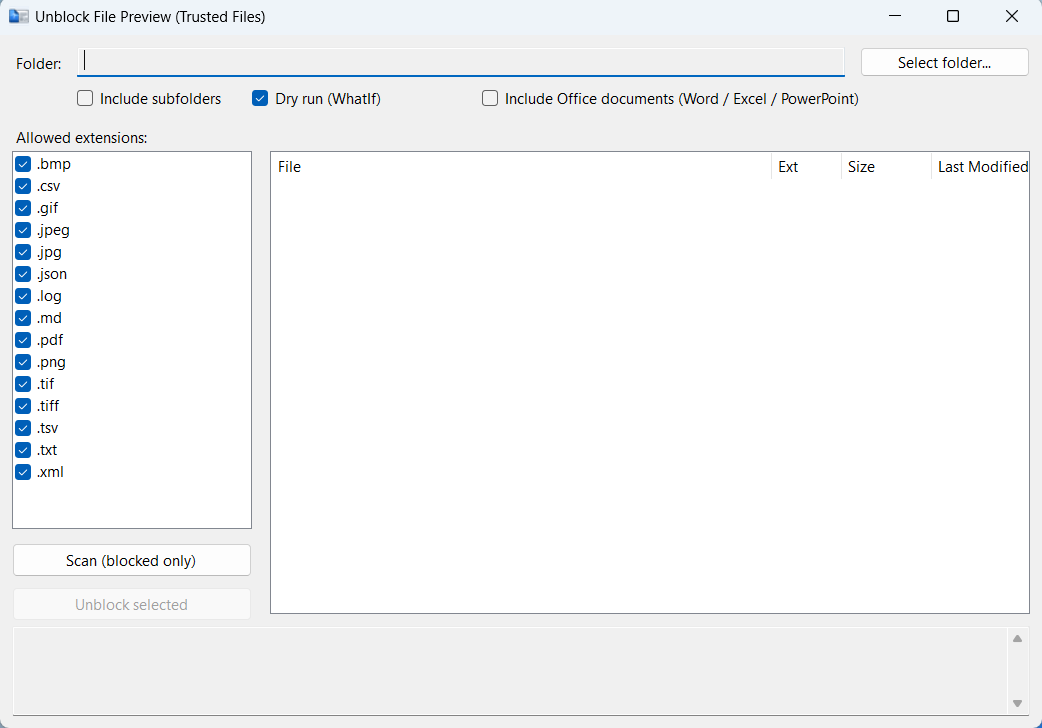
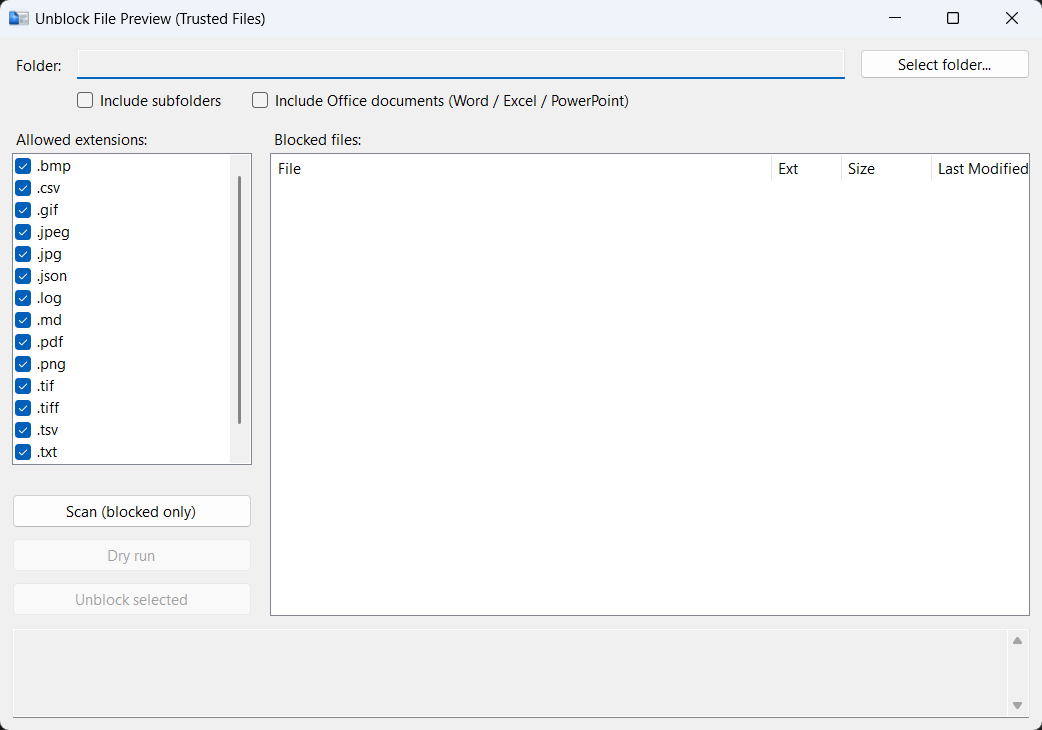
update

diff --git a/MainForm.cs b/MainForm.cs
@@ -17,13 +17,14 @@ namespace UnblockFilePreview
         private Button btnSelectFolder = null!;
 
         private CheckBox chkRecurse = null!;
-        private CheckBox chkDryRun = null!;
         private CheckBox chkOfficeDocs = null!;
 
         private CheckedListBox clbExts = null!;
         private Button btnScan = null!;
+        private Button btnDryRun = null!;
         private Button btnUnblockSelected = null!;
 
+        private Label lblFiles = null!;
         private ListView lvFiles = null!;
         private TextBox txtLog = null!;
 
@@ -36,7 +37,11 @@ namespace UnblockFilePreview
             ".png", ".jpg", ".jpeg", ".gif", ".bmp", ".tif", ".tiff"
         };
 
-        private static readonly string[] officeExts = new[] { ".docx", ".xlsx", ".pptx" };
+        private static readonly string[] officeExts = new[] { 
+            ".doc", ".docx", ".docm",  // Word
+            ".xls", ".xlsx", ".xlsm", ".xlsb",  // Excel
+            ".ppt", ".pptx", ".pptm"   // PowerPoint
+        };
 
         // Layout constants (easy to tweak)
         private const int MarginX = 12;
@@ -104,18 +109,17 @@ namespace UnblockFilePreview
             // ---- Row 2: options ----
             int optionsTop = TopY + 40;
             chkRecurse = new CheckBox { Left = MarginX + 65, Top = optionsTop, Width = 160, Text = "Include subfolders", Checked = false };
-            chkDryRun = new CheckBox { Left = MarginX + 240, Top = optionsTop, Width = 220, Text = "Dry run (WhatIf)", Checked = true };
 
             chkOfficeDocs = new CheckBox
             {
-                Left = MarginX + 470,
+                Left = MarginX + 65 + 160 + 15,
                 Top = optionsTop,
-                Width = 420,
+                Width = 450,
                 Text = "Include Office documents (Word / Excel / PowerPoint)",
                 Checked = false
             };
             toolTip.SetToolTip(chkOfficeDocs,
-                "Adds .docx/.xlsx/.pptx to the allowed extension list.\r\n" +
+                "Adds Office document extensions (.doc/.docx, .xls/.xlsx, .ppt/.pptx, etc.) to the allowed list.\r\n" +
                 "Only enable this if you trust the file source.");
             chkOfficeDocs.CheckedChanged += (_, __) => SyncOfficeExtensionsToAllowedList();
 
@@ -159,10 +163,21 @@ namespace UnblockFilePreview
             };
             btnScan.Click += async (_, __) => await ScanAsync();
 
-            btnUnblockSelected = new Button
+            btnDryRun = new Button
             {
                 Left = MarginX,
                 Top = btnTop + 44,
+                Width = LeftColWidth,
+                Height = 34,
+                Text = "Dry run",
+                Enabled = false
+            };
+            btnDryRun.Click += async (_, __) => await DryRunSelectedAsync();
+
+            btnUnblockSelected = new Button
+            {
+                Left = MarginX,
+                Top = btnTop + 88,
                 Width = LeftColWidth,
                 Height = 34,
                 Text = "Unblock selected",
@@ -171,13 +186,23 @@ namespace UnblockFilePreview
             btnUnblockSelected.Click += async (_, __) => await UnblockSelectedAsync();
 
             toolTip.SetToolTip(btnScan, "Find files that still have Mark of the Web (Zone.Identifier).");
+            toolTip.SetToolTip(btnDryRun, "Preview what would be unblocked without making changes.");
             toolTip.SetToolTip(btnUnblockSelected, "Remove Mark of the Web for the checked files.");
 
             // Right: file list aligned to top of allowlist (top aligns with clbExts top)
             int rightLeft = MarginX + LeftColWidth + Gap;
             int rightWidth = ClientSize.Width - rightLeft - MarginX; // respect current window width
+            
+            lblFiles = new Label
+            {
+                Left = rightLeft,
+                Top = twoColTop,
+                Width = rightWidth,
+                Text = "Blocked files:"
+            };
+            
             int lvTop = clbTop; // ALIGN TOP with allowlist listbox
-            int lvHeight = (btnTop + 44 + 34) - lvTop; // roughly align bottom with buttons area
+            int lvHeight = (btnTop + 88 + 34) - lvTop; // roughly align bottom with buttons area
             // But we also want it to feel big, so give it a minimum height and let log take the rest.
             lvHeight = Math.Max(lvHeight, 430);
 
@@ -198,7 +223,9 @@ namespace UnblockFilePreview
 
             lvFiles.ItemChecked += (_, __) =>
             {
-                btnUnblockSelected.Enabled = lvFiles.CheckedItems.Count > 0;
+                bool hasSelection = lvFiles.CheckedItems.Count > 0;
+                btnDryRun.Enabled = hasSelection;
+                btnUnblockSelected.Enabled = hasSelection;
             };
 
             // Log at bottom, spanning full width
@@ -225,14 +252,15 @@ namespace UnblockFilePreview
             Controls.Add(btnSelectFolder);
 
             Controls.Add(chkRecurse);
-            Controls.Add(chkDryRun);
             Controls.Add(chkOfficeDocs);
 
             Controls.Add(lblExt);
             Controls.Add(clbExts);
             Controls.Add(btnScan);
+            Controls.Add(btnDryRun);
             Controls.Add(btnUnblockSelected);
 
+            Controls.Add(lblFiles);
             Controls.Add(lvFiles);
             Controls.Add(txtLog);
 
@@ -247,6 +275,9 @@ namespace UnblockFilePreview
             int rightWidth = ClientSize.Width - rightLeft - MarginX;
             if (rightWidth < 300) rightWidth = 300;
 
+            lblFiles.Left = rightLeft;
+            lblFiles.Width = rightWidth;
+            
             lvFiles.Left = rightLeft;
             lvFiles.Width = rightWidth;
 
@@ -260,6 +291,20 @@ namespace UnblockFilePreview
             if (logTop < lvTop + 220) logTop = lvTop + 220;
 
             lvFiles.Height = Math.Max(260, logTop - spacing - lvTop);
+
+            // Adjust extension list height so bottom of "Unblock selected" button aligns with bottom of right panel
+            // Bottom of btnUnblockSelected = clbTop + clbHeight + 12 + 88 + 34 = clbTop + clbHeight + 134
+            // Bottom of lvFiles = lvTop + lvHeight = clbTop + lvHeight (since lvTop = clbTop)
+            // For alignment: clbHeight + 134 = lvHeight, so clbHeight = lvHeight - 134
+            int desiredClbHeight = lvFiles.Height - 134;
+            int minClbHeight = 200; // minimum reasonable height for the extension list
+            clbExts.Height = Math.Max(minClbHeight, desiredClbHeight);
+            
+            // Update button positions based on new clbExts height
+            int btnTop = clbExts.Top + clbExts.Height + 12;
+            btnScan.Top = btnTop;
+            btnDryRun.Top = btnTop + 44;
+            btnUnblockSelected.Top = btnTop + 88;
 
             txtLog.Left = MarginX;
             txtLog.Width = ClientSize.Width - 2 * MarginX;
@@ -415,6 +460,7 @@ namespace UnblockFilePreview
             }
 
             btnScan.Enabled = false;
+            btnDryRun.Enabled = false;
             btnUnblockSelected.Enabled = false;
             btnSelectFolder.Enabled = false;
 
@@ -515,18 +561,16 @@ $items | ConvertTo-Json -Compress
                 return;
             }
 
-            if (!chkDryRun.Checked)
-            {
-                var res = MessageBox.Show(
-                    "This will remove 'downloaded from the Internet' mark (Mark of the Web) for the selected files.\n\nProceed only if you trust the source.",
-                    "Confirm unblock",
-                    MessageBoxButtons.YesNo,
-                    MessageBoxIcon.Warning);
+            var res = MessageBox.Show(
+                "This will remove 'downloaded from the Internet' mark (Mark of the Web) for the selected files.\n\nProceed only if you trust the source.",
+                "Confirm unblock",
+                MessageBoxButtons.YesNo,
+                MessageBoxIcon.Warning);
 
-                if (res != DialogResult.Yes) return;
-            }
+            if (res != DialogResult.Yes) return;
 
             btnUnblockSelected.Enabled = false;
+            btnDryRun.Enabled = false;
             btnScan.Enabled = false;
             btnSelectFolder.Enabled = false;
 
@@ -534,9 +578,9 @@ $items | ConvertTo-Json -Compress
                            .Select(i => (string)i.Tag!)
                            .ToArray();
 
-            Log($"{(chkDryRun.Checked ? "Dry run" : "Unblocking")} {paths.Length} file(s) ...");
+            Log($"Unblocking {paths.Length} file(s) ...");
 
-            string whatIf = chkDryRun.Checked ? " -WhatIf" : "";
+            string whatIf = "";
             string psPaths = "@(" + string.Join(",", paths.Select(p => "'" + PsSingleQuote(p) + "'")) + ")";
 
             string ps = $@"
@@ -562,20 +606,71 @@ foreach ($p in $paths) {{
             }
             else
             {
-                if (chkDryRun.Checked)
-                {
-                    Log("Dry run complete (no changes made).");
-                }
-                else
-                {
-                    Log("Unblock complete. Refreshing list ...");
-                    await ScanAsync();
-                }
+                Log("Unblock complete. Refreshing list ...");
+                await ScanAsync();
             }
 
             btnScan.Enabled = true;
             btnSelectFolder.Enabled = true;
-            btnUnblockSelected.Enabled = lvFiles.CheckedItems.Count > 0;
+            bool hasSelection = lvFiles.CheckedItems.Count > 0;
+            btnDryRun.Enabled = hasSelection;
+            btnUnblockSelected.Enabled = hasSelection;
+        }
+
+        private async System.Threading.Tasks.Task DryRunSelectedAsync()
+        {
+            if (lvFiles.CheckedItems.Count == 0)
+            {
+                MessageBox.Show("Please select at least one file for dry run.", "No selection",
+                    MessageBoxButtons.OK, MessageBoxIcon.Information);
+                return;
+            }
+
+            btnDryRun.Enabled = false;
+            btnUnblockSelected.Enabled = false;
+            btnScan.Enabled = false;
+            btnSelectFolder.Enabled = false;
+
+            var paths = lvFiles.CheckedItems.Cast<ListViewItem>()
+                           .Select(i => (string)i.Tag!)
+                           .ToArray();
+
+            Log($"Dry run: {paths.Length} file(s) ...");
+
+            string whatIf = " -WhatIf";
+            string psPaths = "@(" + string.Join(",", paths.Select(p => "'" + PsSingleQuote(p) + "'")) + ")";
+
+            string ps = $@"
+$paths = {psPaths}
+foreach ($p in $paths) {{
+  try {{
+    Unblock-File -LiteralPath $p -ErrorAction Continue{whatIf}
+    Write-Output $p
+  }} catch {{
+    Write-Error ""Failed: $p -> $($_.Exception.Message)""
+  }}
+}}
+";
+
+            var (code, _, stderr) = await RunPowerShellAsync(ps);
+
+            if (!string.IsNullOrWhiteSpace(stderr))
+                Log("PS ERR: " + stderr.Trim());
+
+            if (code != 0)
+            {
+                Log($"Dry run step failed. Exit code: {code}");
+            }
+            else
+            {
+                Log("Dry run complete (no changes made).");
+            }
+
+            btnScan.Enabled = true;
+            btnSelectFolder.Enabled = true;
+            bool hasSelection = lvFiles.CheckedItems.Count > 0;
+            btnDryRun.Enabled = hasSelection;
+            btnUnblockSelected.Enabled = hasSelection;
         }
 
         // ---------------- Helpers ----------------

diff --git a/README.md b/README.md
@@ -67,7 +67,7 @@ This software currently only supports Windows OS.
 
 2. **Configure options**:
    - **Recurse subfolders**: Check this to scan files in subdirectories as well
-   - **Include Office docs**: Check this to include Microsoft Office files (.docx, .xlsx, .pptx) in the scan
+   - **Include Office docs**: Check this to include Microsoft Office files (.doc/.docx, .xls/.xlsx, .ppt/.pptx, etc.) in the scan
    - **File types**: Select which file extensions to scan for (default includes PDFs, images, and text files)
 
 3. **Scan for blocked files**: Click "Scan" to find files that are blocked from preview. The results will appear in the file list.
@@ -81,9 +81,9 @@ This software currently only supports Windows OS.
    - Click "Unblock Selected" to remove the "Mark of the Web" flag from the selected files
    - The log area will show the results of the operation
    
-   >Note: you may need to reopen Windows Explorer window to see the effects
+   > **Safety note:** Only unblock files from sources you trust! This utility removes Windows security warnings, so use it responsibly.
 
-> **Safety note:** Only unblock files from sources you trust! This utility removes Windows security warnings, so use it responsibly.
+> Note: after unblock, you may need to reopen Windows Explorer window to see the effects
 
 ## Project Details
 
